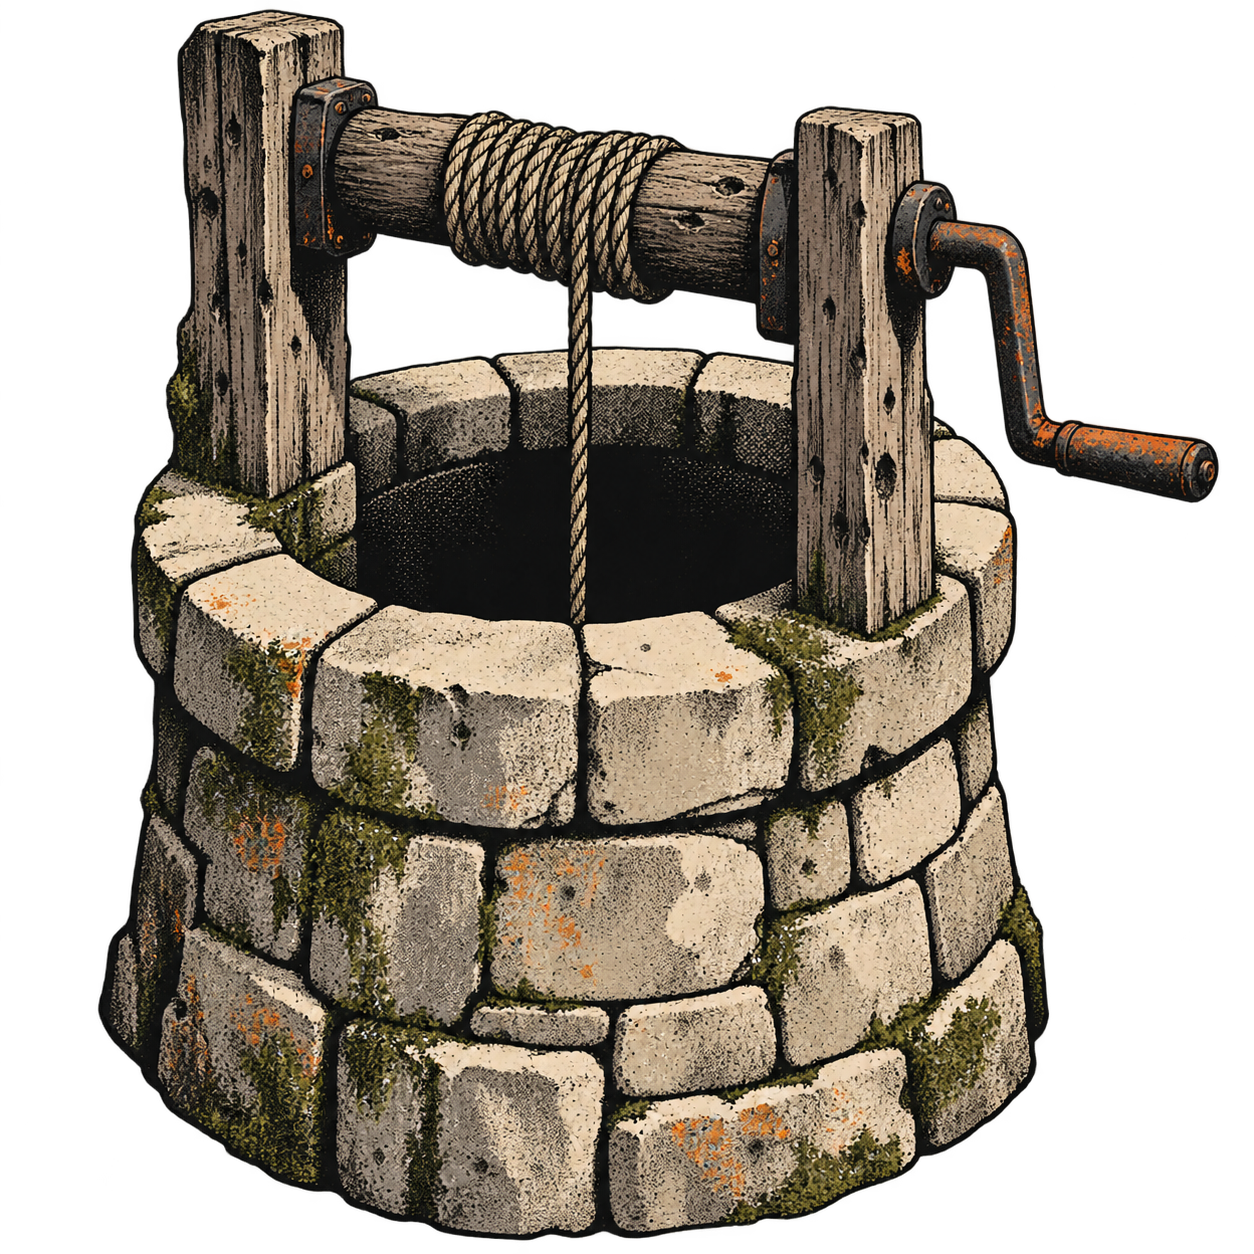
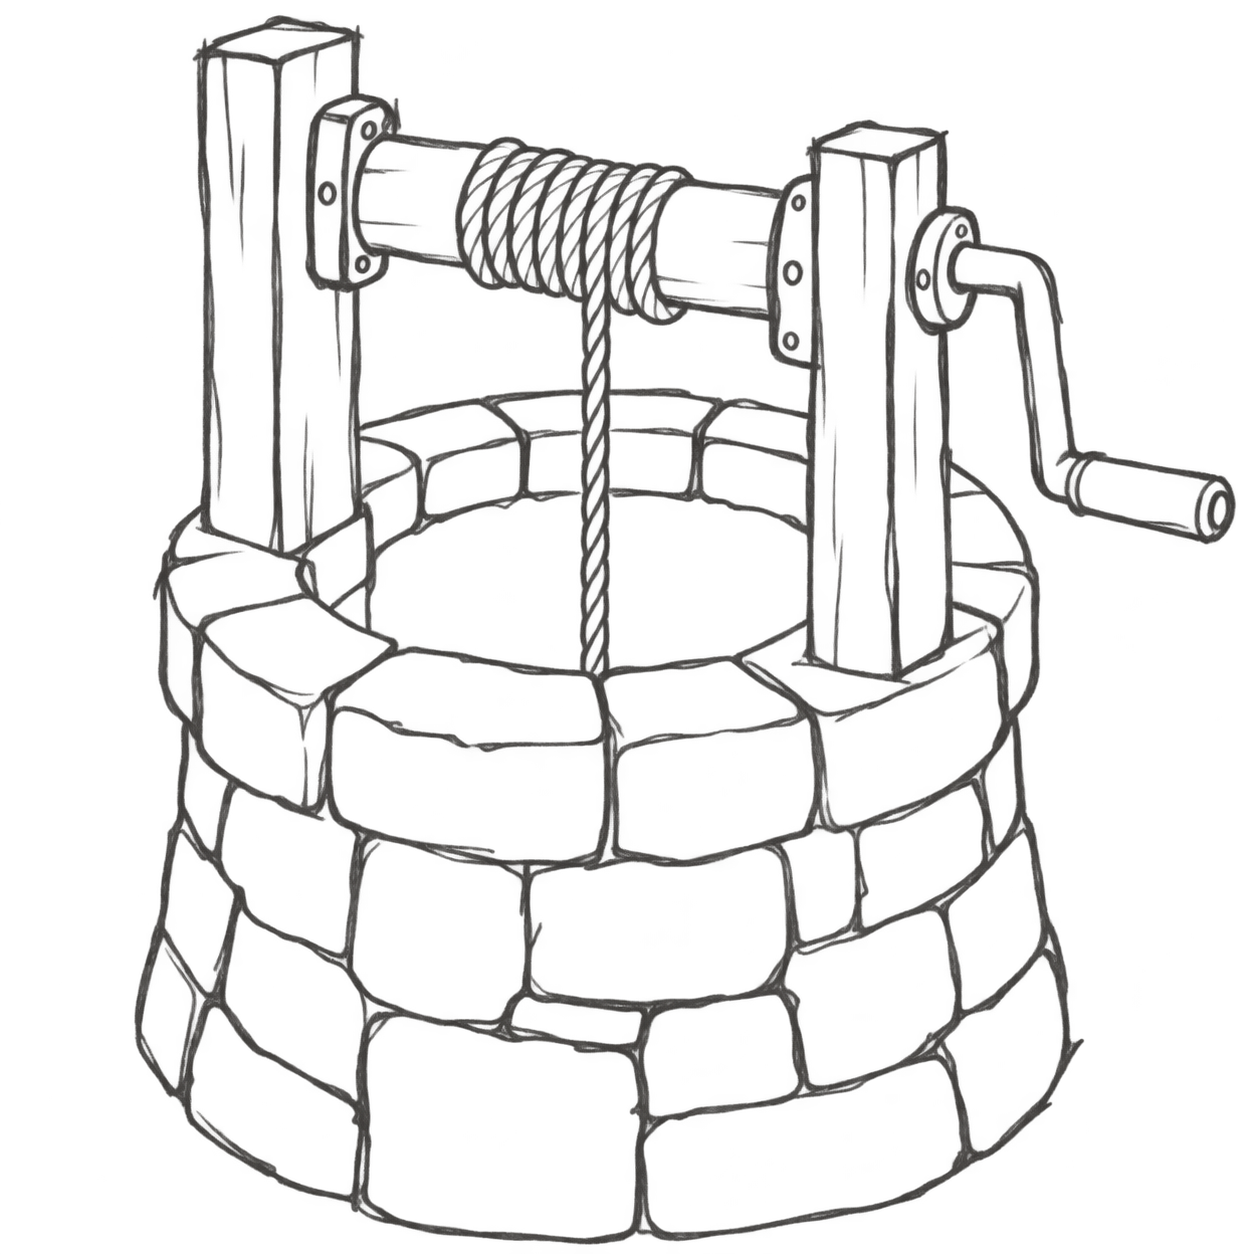
Simplify well artwork to an outline sketch

diff --git a/apps/web/src/app/globals.css b/apps/web/src/app/globals.css
@@ -13,7 +13,7 @@ button { font:inherit; }
 .hero h1 { position:relative; z-index:2; width:91%; margin:0; font-size:clamp(65px,9.7vw,142px); line-height:.77; letter-spacing:-.085em; text-transform:uppercase; }
 .hero h1 span { display:inline-block; color:var(--paper); background:var(--ink); padding:10px 20px 18px 8px; transform:rotate(-1.2deg) translateX(4vw); white-space:nowrap; }
 .heroMark { position:absolute; right:-.03em; top:.06em; color:#d8d5ca; font-size:clamp(180px,30vw,430px); font-weight:900; line-height:1; letter-spacing:-.14em; user-select:none; writing-mode:vertical-rl; }
-.wellArt { position:absolute; z-index:1; right:1%; bottom:-10%; width:min(48vw,590px); transform:rotate(2.5deg); filter:saturate(.72) contrast(.96); }
+.wellArt { position:absolute; z-index:1; right:1%; bottom:-10%; width:min(48vw,590px); transform:rotate(2.5deg); }
 .wellArt img { display:block; width:100%; height:auto; }
 .lede { position:absolute; z-index:3; left:1.5%; bottom:116px; width:min(440px,43%); margin:0; border:1px solid var(--ink); padding:18px; background:rgba(231,228,218,.94); color:var(--ink); font:18px/1.35 system-ui,sans-serif; transform:rotate(-1deg); }
 .buttonRow { position:absolute; z-index:3; left:0; bottom:40px; display:flex; flex-wrap:wrap; gap:0; }
